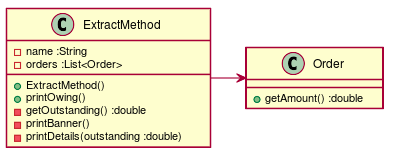
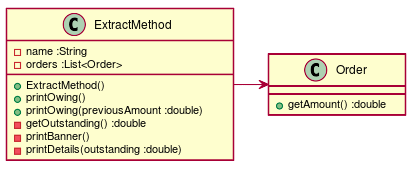
メソッドの構成 #EFJ-12
・ローカル変数の再代入

Changed region(s): [[0.0, 0.0255, 1.0, 0.9682]]

diff --git a/src/test/java/refactoring/catalog/ExtractMethodTest.java b/src/test/java/refactoring/catalog/ExtractMethodTest.java
@@ -22,4 +22,18 @@ public class ExtractMethodTest {
         extractMethod.printOwing();
         assertEquals(expected, outContent.toString());
     }
+    @Test void printBannerWithArg() {
+        ByteArrayOutputStream outContent = new ByteArrayOutputStream();
+        System.setOut(new PrintStream(outContent));
+        String expected = "***********************\n" +
+                "**** Customer Owes ****\n" +
+                "***********************\n" +
+                "name:Test\n" +
+                "amount:12.0\n";
+
+        ExtractMethod extractMethod = new ExtractMethod();
+        double previousAmount = 10;
+        extractMethod.printOwing(previousAmount);
+        assertEquals(expected, outContent.toString());
+    }
 }

diff --git a/src/main/java/refactoring/catalog/ExtractMethod.java b/src/main/java/refactoring/catalog/ExtractMethod.java
@@ -25,6 +25,17 @@ class ExtractMethod {
         printDetails(outstanding);
     }
 
+    public void printOwing(double previousAmount) {
+        double outstanding = previousAmount * 1.2;
+
+        printBanner();
+
+        for(Order order : _orders)
+            outstanding += order.getAmount();
+
+        printDetails(outstanding);
+    }
+
     private double getOutstanding() {
         double result = 0.0;
         // 未払い金の計算

diff --git a/docs/refactoring_catalog.md b/docs/refactoring_catalog.md
@@ -12,11 +12,11 @@
 ##### クラス図
   
 
-![](./assets/refactoring_catalog/30c0abba45d31db5980c104fd57a660d0.png?0.17928808768056514)  
+![](./assets/refactoring_catalog/30c0abba45d31db5980c104fd57a660d0.png?0.7672691645703071)  
 ##### シーケンス図
   
 
-![](./assets/refactoring_catalog/30c0abba45d31db5980c104fd57a660d1.png?0.25978914527823327)  
+![](./assets/refactoring_catalog/30c0abba45d31db5980c104fd57a660d1.png?0.18524817336526445)  
 #### 実装
   
 `ExtractMethodTest.java`
@@ -43,6 +43,20 @@ public class ExtractMethodTest {
   
         ExtractMethod extractMethod = new ExtractMethod();
         extractMethod.printOwing();
+        assertEquals(expected, outContent.toString());
+    }
+    @Test void printBannerWithArg() {
+        ByteArrayOutputStream outContent = new ByteArrayOutputStream();
+        System.setOut(new PrintStream(outContent));
+        String expected = "***********************\n" +
+                "**** Customer Owes ****\n" +
+                "***********************\n" +
+                "name:Test\n" +
+                "amount:12.0\n";
+  
+        ExtractMethod extractMethod = new ExtractMethod();
+        double previousAmount = 10;
+        extractMethod.printOwing(previousAmount);
         assertEquals(expected, outContent.toString());
     }
 }
@@ -74,6 +88,17 @@ class ExtractMethod {
     public void printOwing() {
         printBanner();
         double outstanding = getOutstanding();
+        printDetails(outstanding);
+    }
+  
+    public void printOwing(double previousAmount) {
+        double outstanding = previousAmount * 1.2;
+  
+        printBanner();
+  
+        for(Order order : _orders)
+            outstanding += order.getAmount();
+  
         printDetails(outstanding);
     }
   

diff --git a/docs/src/refacotring_catalog.md b/docs/src/refacotring_catalog.md
@@ -19,9 +19,10 @@ class ExtractMethod {
   -orders :List<Order>
   +ExtractMethod()
   +printOwing()
+  +printOwing(previousAmount :double)
   -getOutstanding() :double
   -printBanner()  
-  -printDetails(outstanding :double)
+  -printDetails(outstanding :double)  
 }
 class Order {
   + getAmount() :double
